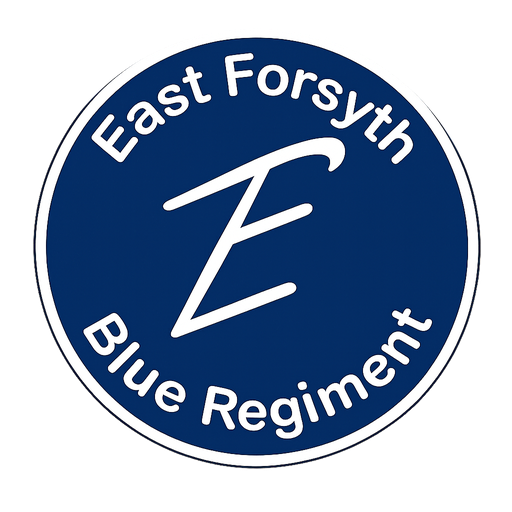
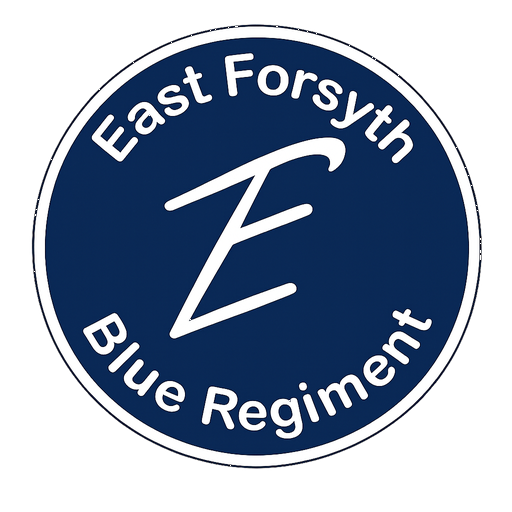
Update home Band information card to the newest Blue Regiment mark.
Replace the shared mark asset from the latest upload and cache-bust the hero-card image so the homepage no longer shows the old logo.

diff --git a/script.js b/script.js
@@ -529,7 +529,7 @@ function ensureWebAppManifestLink() {
   if (!document.querySelector('link[rel="apple-touch-icon"]')) {
     const apple = document.createElement('link');
     apple.rel = 'apple-touch-icon';
-    apple.href = '/assets/efhs-blue-regiment-mark.png?v=restore-minutes-no-logo-20260816';
+    apple.href = '/assets/efhs-blue-regiment-mark.png?v=home-hero-logo-20260816';
     document.head.appendChild(apple);
   }
 }
@@ -548,7 +548,7 @@ function ensureAddToHomeNavControl() {
     button.innerHTML = `
       <span class="nav-add-home-icon" aria-hidden="true">
         <svg class="nav-add-home-house" viewBox="0 0 24 24" focusable="false"><path d="M3.6 10.4 12 3.5l8.4 6.9V20a1.1 1.1 0 0 1-1.1 1.1H4.7A1.1 1.1 0 0 1 3.6 20V10.4Z" fill="none" stroke="currentColor" stroke-width="1.7" stroke-linejoin="round"/></svg>
-        <img class="nav-add-home-mark" src="/assets/efhs-blue-regiment-mark.png?v=restore-minutes-no-logo-20260816" alt="" width="16" height="16" decoding="async">
+        <img class="nav-add-home-mark" src="/assets/efhs-blue-regiment-mark.png?v=home-hero-logo-20260816" alt="" width="16" height="16" decoding="async">
       </span>`;
     const notify = siteNav.querySelector('[data-notify-me]');
     if (notify && notify.nextSibling) siteNav.insertBefore(button, notify.nextSibling);
@@ -610,7 +610,7 @@ function ensureAddToHomeSheet() {
   sheet.innerHTML = `
     <div class="add-home-sheet-panel" role="dialog" aria-modal="true" aria-labelledby="add-home-title">
       <div class="add-home-sheet-head">
-        <img src="/assets/efhs-blue-regiment-mark.png?v=restore-minutes-no-logo-20260816" alt="">
+        <img src="/assets/efhs-blue-regiment-mark.png?v=home-hero-logo-20260816" alt="">
         <div>
           <h2 id="add-home-title">Add to Home Screen</h2>
           <p data-add-home-os></p>

diff --git a/index.html b/index.html
@@ -32,7 +32,7 @@
       <p data-site-field="hero_subtitle">A polished home for the East Forsyth Band program — built for students, families, alumni, sponsors, and the Kernersville community.</p>
       <div class="button-row"><a class="btn primary" href="calendar.html">View Calendar</a><a class="btn secondary" href="ensembles.html">Explore Ensembles</a><a class="btn gold" href="sponsors.html">Support the Band</a></div>
     </div>
-    <aside class="hero-card"><img src="assets/efhs-blue-regiment-mark.png" alt="East Forsyth Blue Regiment"><h2>Band information in one place</h2><ul><li>Ensembles and program overview</li><li>Upcoming events and rehearsal notes</li><li>Booster, fundraising, and sponsor information</li></ul></aside>
+    <aside class="hero-card"><img src="assets/efhs-blue-regiment-mark.png?v=home-hero-logo-20260816" alt="East Forsyth Blue Regiment"><h2>Band information in one place</h2><ul><li>Ensembles and program overview</li><li>Upcoming events and rehearsal notes</li><li>Booster, fundraising, and sponsor information</li></ul></aside>
   </div>
 </section>
 <section>

diff --git a/site-content.js b/site-content.js
@@ -298,7 +298,7 @@ function ensurePublicBrandMark() {
     if (brand.querySelector('img.brand-mark')) return;
     const mark = document.createElement('img');
     mark.className = 'brand-mark';
-    mark.src = '/assets/efhs-blue-regiment-mark.png?v=restore-minutes-no-logo-20260816';
+    mark.src = '/assets/efhs-blue-regiment-mark.png?v=home-hero-logo-20260816';
     mark.alt = 'East Forsyth Blue Regiment';
     brand.appendChild(mark);
   });
